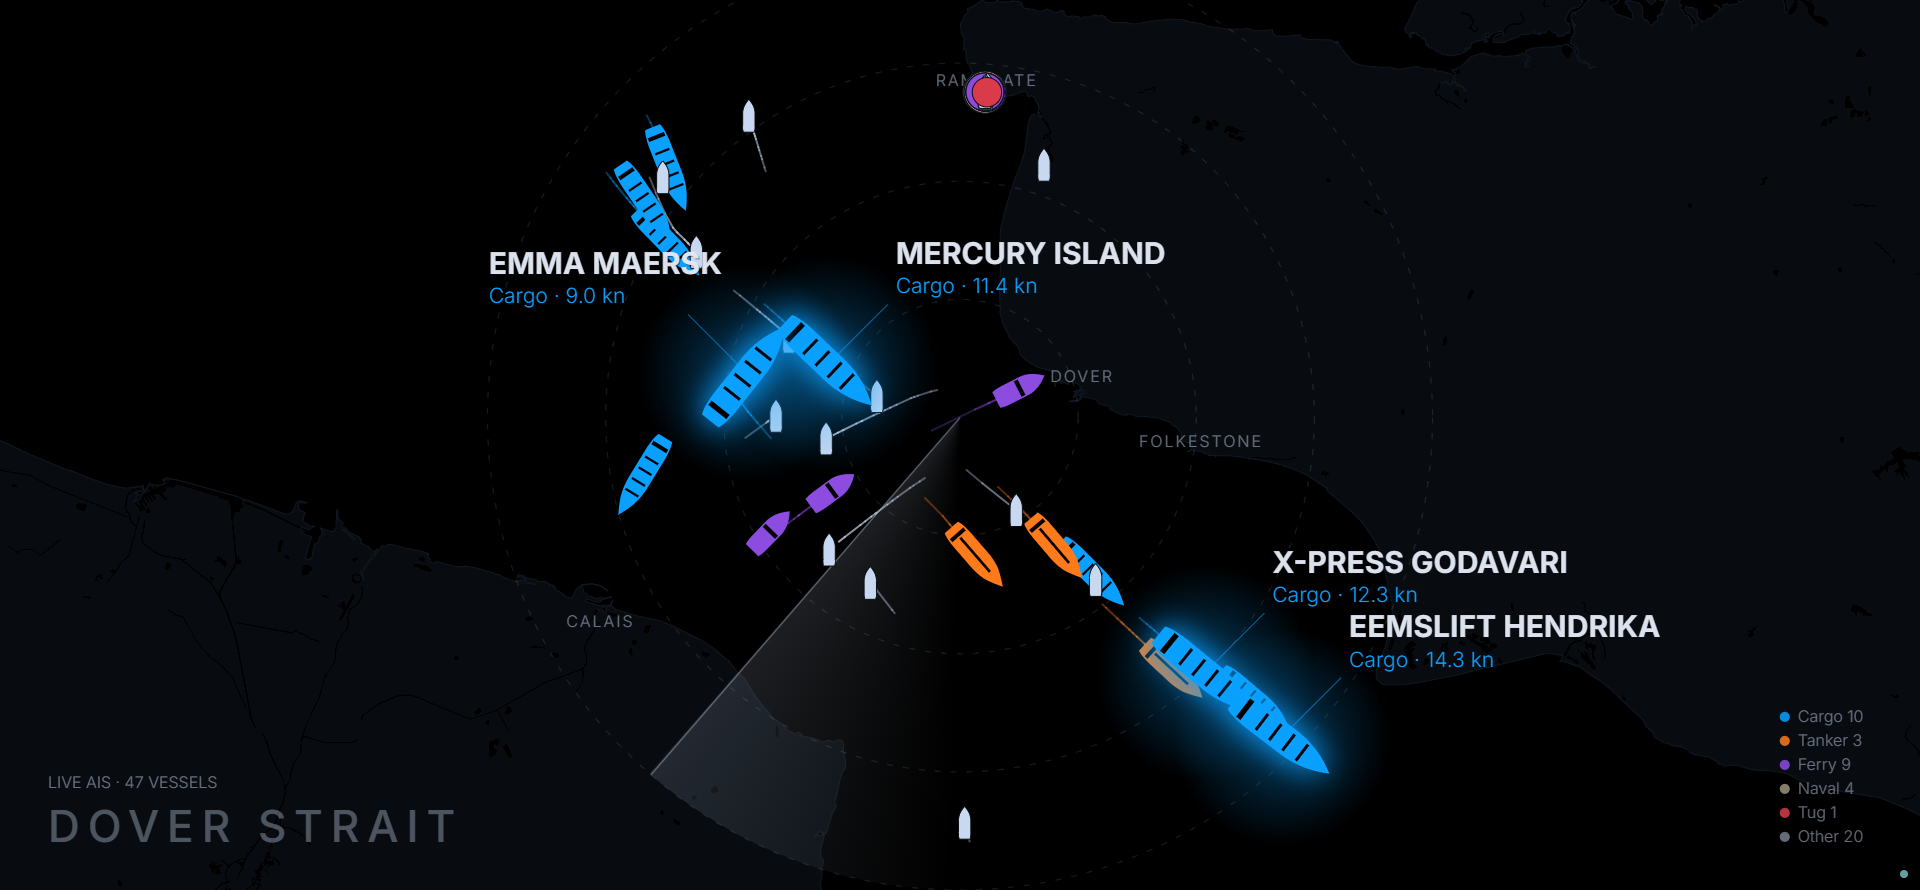
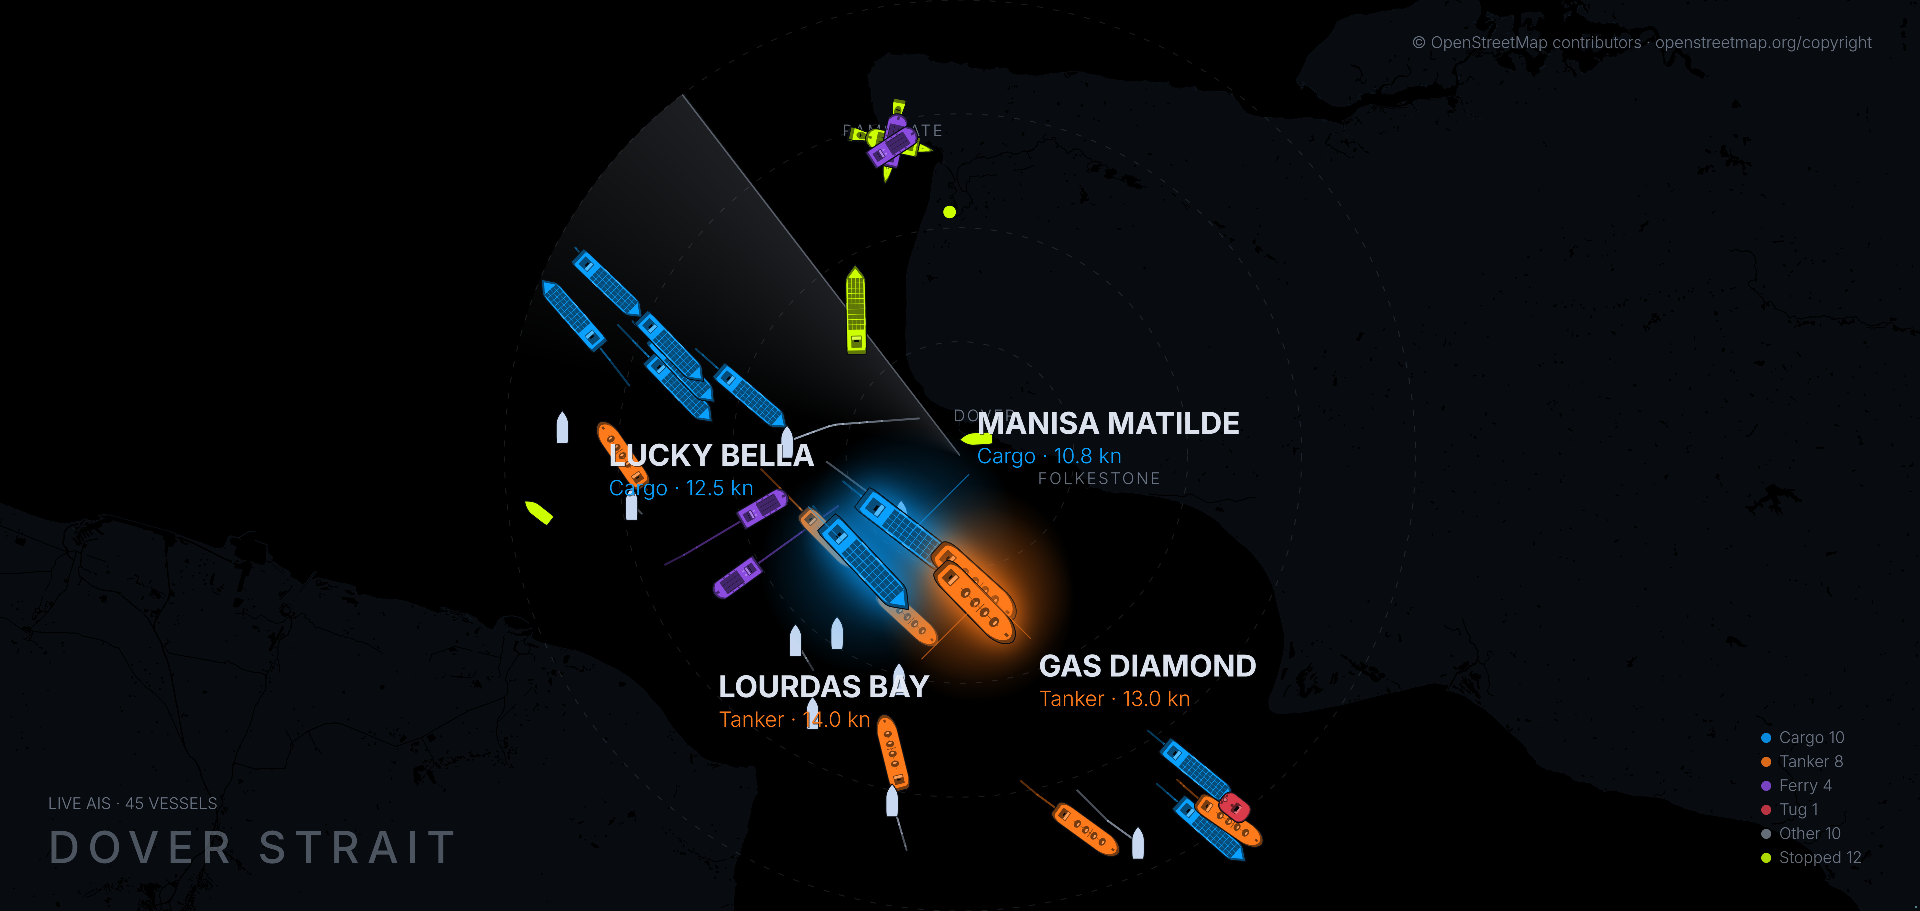
Refresh the README picture

diff --git a/README.md b/README.md
@@ -8,7 +8,7 @@ any screen or projector you already own.
 It is free and open source. There is no account, no subscription and nothing to
 pay. You need one free API key and about ten minutes.
 
-![Portsviews showing cargo ships, tankers and ferries crossing the Dover Strait, each drawn with its heading and wake, the largest labelled with name, type and speed](assets/hero-dover.png)
+![Portsviews showing ships in the Dover Strait over a dark coastline map: moving ships in their type colours with a wake behind each, stopped ships in yellow-green, and the largest ships named.](assets/hero-dover.png)
 
 *A real frame from the display. The image is mirrored left-to-right, because the
 display is designed to be bounced off a mirror onto a ceiling.*
